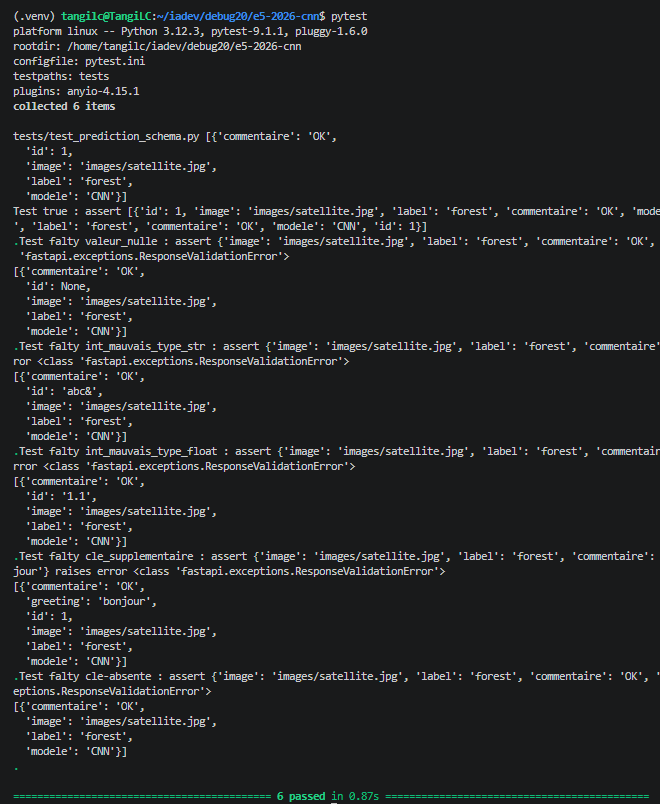
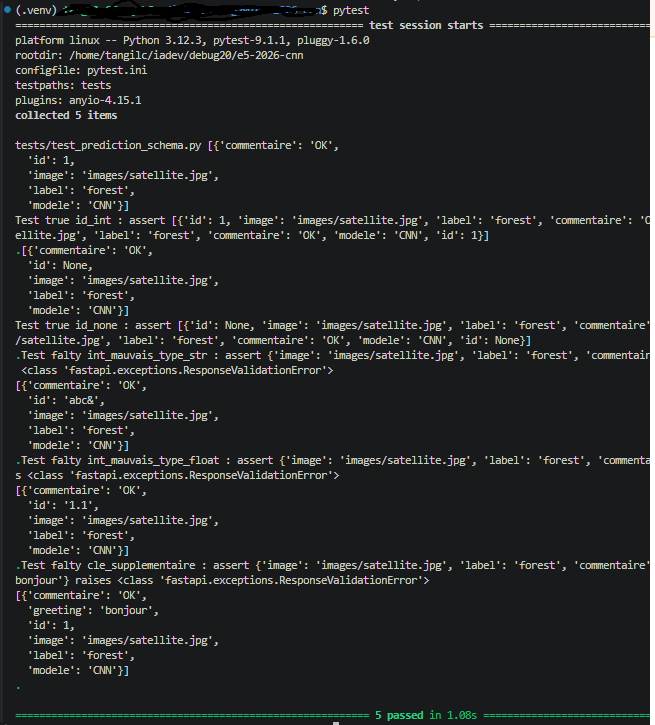
docs

diff --git a/tests/test_requete_bdd.py b/tests/test_requete_bdd.py
@@ -1,0 +1,73 @@
+import sqlite3
+import unittest
+
+SCHEMA = """
+CREATE TABLE labels (
+    id INTEGER PRIMARY KEY AUTOINCREMENT,
+    label TEXT NOT NULL
+);
+CREATE TABLE predictions (
+    id INTEGER PRIMARY KEY AUTOINCREMENT,
+    image TEXT NOT NULL,
+    label INTEGER NOT NULL REFERENCES labels(id),
+    commentaire TEXT NOT NULL,
+    modele TEXT NOT NULL
+);
+INSERT INTO labels (label) VALUES ('forêt'), ('mer'), ('désert'), ('nuageux');
+INSERT INTO predictions (image, label, commentaire, modele) VALUES
+    ('a.jpg', 1, 'OK', 'v1'),
+    ('b.jpg', 2, 'OK', 'v2');
+"""
+
+REQUETE_CORRIGEE = (
+    "SELECT predictions.id as id, predictions.image as image, "
+    "labels.label as label, predictions.commentaire as commentaire, "
+    "predictions.modele as modele "
+    "FROM predictions JOIN labels ON predictions.label = labels.id"
+)
+
+# Requête initiale (ticket-3) : le champ id n'est pas sélectionné.
+REQUETE_AVEC_BUG = (
+    "SELECT predictions.image as image, "
+    "labels.label as label, predictions.commentaire as commentaire, "
+    "predictions.modele as modele "
+    "FROM predictions JOIN labels ON predictions.label = labels.id"
+)
+
+
+def ligne_en_dict(cursor, row):
+    """Transforme une ligne SQLite en dict, comme le curseur MySQL."""
+    return {col[0]: row[i] for i, col in enumerate(cursor.description)}
+
+
+class TestRequeteListerPredictions(unittest.TestCase):
+    """Vérifie la présence de l'id selon la requête (ticket-3)."""
+
+    def setUp(self):
+        self.conn = sqlite3.connect(":memory:")
+        self.conn.row_factory = ligne_en_dict
+        self.conn.executescript(SCHEMA)
+        self.addCleanup(self.conn.close)
+
+    def _executer(self, sql):
+        """Exécute la requête et retourne toutes les lignes."""
+        return self.conn.execute(sql).fetchall()
+
+    def test_requete_corrigee_contient_l_id(self):
+        lignes = self._executer(REQUETE_CORRIGEE)
+
+        self.assertEqual(len(lignes), 2)
+        self.assertEqual([l["id"] for l in lignes], [1, 2])
+        self.assertEqual(lignes[1]["label"], "mer")
+        print(f"Test true : assert 'id' in {REQUETE_CORRIGEE}")
+
+    def test_requete_initiale_n_a_pas_d_id(self):
+        lignes = self._executer(REQUETE_AVEC_BUG)
+
+        self.assertEqual(len(lignes), 2)
+        print(f"Test falty : assert 'id' not in {REQUETE_AVEC_BUG}")
+        self.assertNotIn("id", lignes[0])
+
+
+if __name__ == "__main__":
+    unittest.main()

diff --git a/e5-2026-cnn/api/app/bdd/service.py b/e5-2026-cnn/api/app/bdd/service.py
@@ -25,7 +25,8 @@ class Service_Prediction(Connexion):
 
                 bdd.commit()
                 prediction.id = cursor.lastrowid
-            observability.update_observation(span, output={"prediction_id": prediction.id})
+                logger.info("Prédiction enregistrée (id=%d | label=%s)", prediction.id, prediction.label)
+            observability.update_observation(span, output={"predic_id": prediction.id, "label": prediction.label})
         return prediction
 
     @classmethod

diff --git a/debug-steps.md b/debug-steps.md
@@ -59,17 +59,22 @@ Utilisation d'un schéma pydantic plus rigide pour lever une exception en cas de
 class Prediction(BaseModel) :
    **model_config = ConfigDict(extra="forbid")**
 - Ajout de forbid pour lever une exception si le schéma contient une clé supplémentaire
-- Le type None doit être conservé car le pipeline est requête 1 (avant infarence -> None puis après inférence écriture en base avec id)
+- Le type None doit être conservé car le pipeline est requête 1 (avant inférence -> None puis après inférence écriture en base avec id)
 - Comme aucun des autres champs n'accepte le type None, le schéma doit recevoir tous les champs avec une valeur typée non null
 
 ### Test unitaire
 
 En s'appuyant sur le schema pydantic, création de test unitaires pour validation (mock du retour API avec des cas test)
-Cas de test pour id
+- Cas de test valides pour id
+ "id_int"
+ "id_none"
+- Cas de test invalides pour id
  "int_mauvais_type_str"
  "int_mauvais_type_float"
  "cle_supplementaire"
- "cle-absente"
+
+Les 5 tests sont lancés dans l'environnement et passent.
+ ![Capture d'écran de pytest](./ressources/pytest_001.png)
 
 
 ### Mise en place de monitoring et logging
